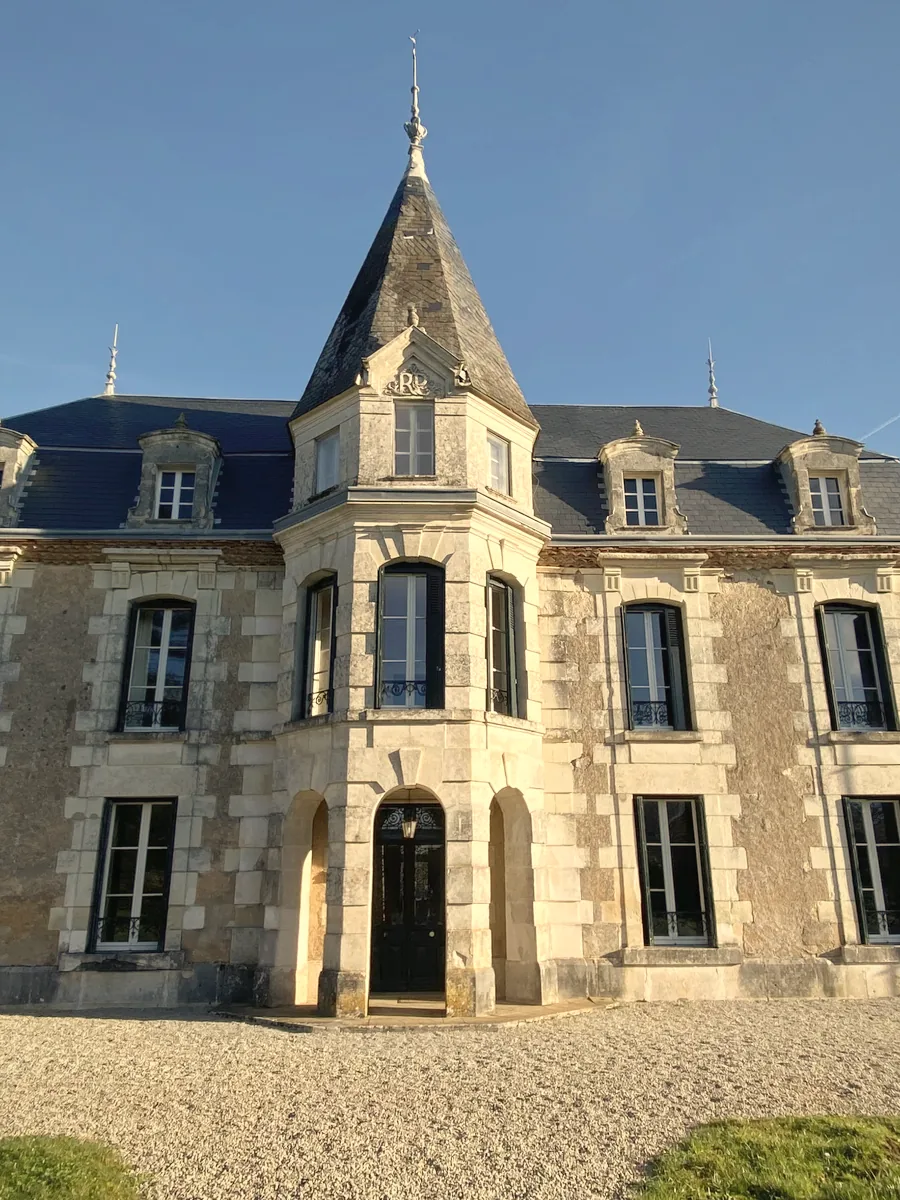
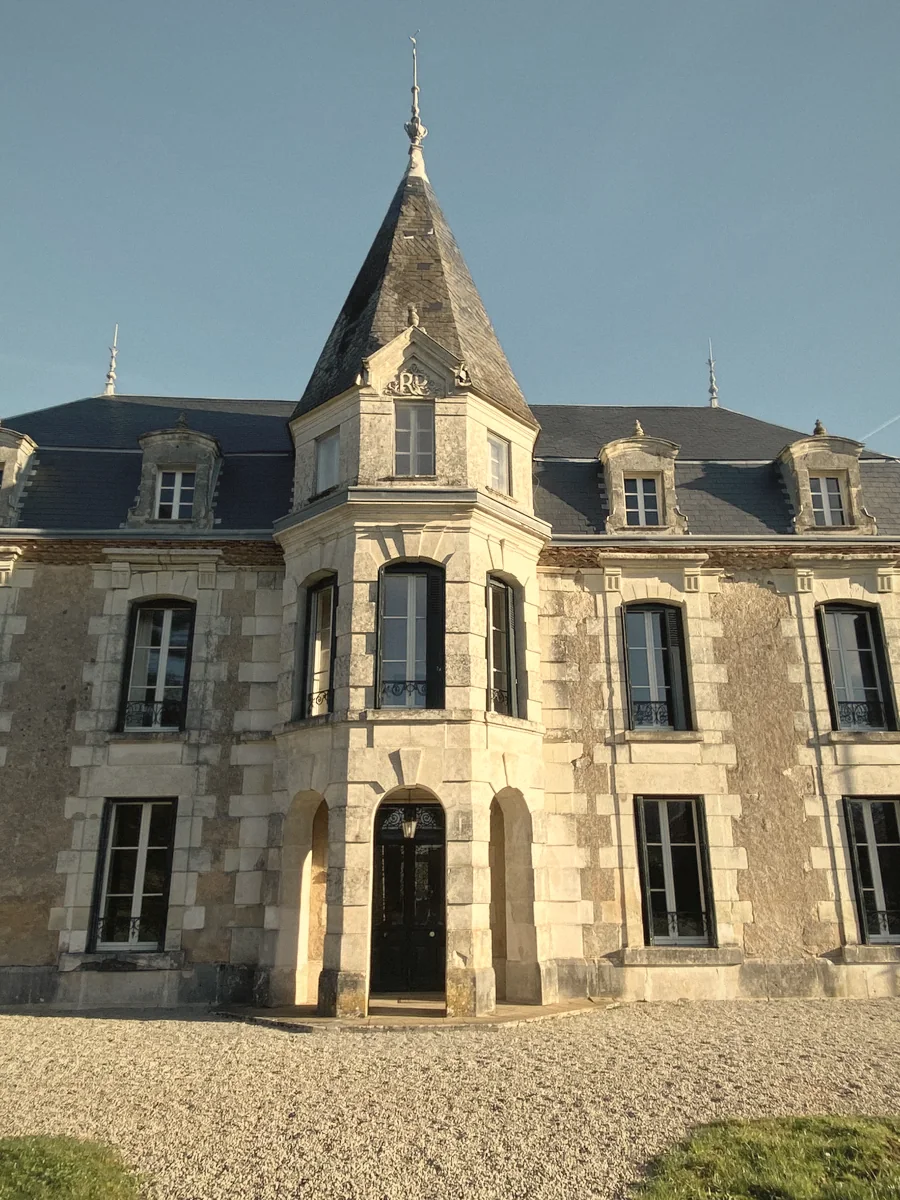
Château: curate eight photos with a muted old-money grade; interests as three areas

diff --git a/index.html b/index.html
@@ -228,12 +228,15 @@
   }
 
   /* Personal interests: small squares, deliberately secondary */
-  .interests { display: grid; grid-template-columns: repeat(3, 1fr); gap: 10px; max-width: 640px; margin: 36px auto 0; }
-  @media (min-width: 700px) { .interests { grid-template-columns: repeat(6, 1fr); max-width: 760px; gap: 12px; } }
+  .interests { display: grid; grid-template-columns: 1fr; gap: 28px; max-width: 300px; margin: 36px auto 0; }
+  @media (min-width: 700px) { .interests { grid-template-columns: repeat(3, 1fr); max-width: 820px; gap: 24px; } }
   .interest { margin: 0; }
   .interest-img { aspect-ratio: 1 / 1; background: var(--tile); overflow: hidden; }
   .interest-img img { width: 100%; height: 100%; object-fit: cover; }
-  .interest figcaption { margin-top: 8px; text-align: center; font-size: 10px; letter-spacing: 0.16em; text-transform: uppercase; color: var(--ink-soft); }
+  .interest figcaption { margin-top: 14px; text-align: center; }
+  .interest-name { display: block; font-size: 10.5px; letter-spacing: 0.16em; text-transform: uppercase; margin-bottom: 8px; }
+  .interest ul { list-style: none; margin: 0; padding: 0; font-size: 13.5px; line-height: 1.5; color: var(--ink-soft); }
+  .interest li + li { margin-top: 2px; }
 
   /* B2B to luxury bridges: title, then industry and luxury side by side */
   .bridges { max-width: 1000px; margin: 0 auto; }
@@ -492,40 +495,40 @@
         </div>
       </div>
       <p class="aside-interests reveal">
-        <span data-l="fr">Hors catalogue&nbsp;: la peinture, des maîtres russes aux impressionnistes, la sculpture italienne en marbre, le piano et le violon, les antiquités et l'architecture intérieure, le monde équestre.</span>
-        <span data-l="en">Outside the catalogue: painting, from the Russian masters to the Impressionists, Italian marble sculpture, piano and violin, antiques and interior design, the equestrian world.</span>
+        <span data-l="fr">Hors catalogue, trois passions qui nourrissent mon regard.</span>
+        <span data-l="en">Outside the catalogue, three passions that shape the way I look at things.</span>
       </p>
 
-      <!-- Personal interests: small square photos with a one-word caption.
+      <!-- Personal interests: three areas, one square photo each, examples below.
            Add a photo inside .interest-img:
-             <img src="img/interest-piano.webp" width="600" height="600" alt="..." loading="lazy"> -->
+             <img src="img/interest-music.webp" width="600" height="600" alt="..." loading="lazy"> -->
       <div class="interests" aria-label="Centres d'intérêt">
         <figure class="interest reveal">
           <div class="interest-img"></div>
-          <figcaption><span data-l="fr">Peinture</span><span data-l="en">Painting</span></figcaption>
+          <figcaption>
+            <span class="interest-name"><span data-l="fr">Beaux-arts</span><span data-l="en">Fine art</span></span>
+            <ul data-l="fr"><li>La peinture, des maîtres russes aux impressionnistes</li><li>La sculpture italienne en marbre</li></ul>
+            <ul data-l="en"><li>Painting, from the Russian masters to the Impressionists</li><li>Italian marble sculpture</li></ul>
+          </figcaption>
         </figure>
         <figure class="interest reveal">
           <div class="interest-img"></div>
-          <figcaption><span data-l="fr">Sculpture</span><span data-l="en">Sculpture</span></figcaption>
-        </figure>
-        <figure class="interest reveal">
-          <div class="interest-img"></div>
-          <figcaption><span data-l="fr">Piano</span><span data-l="en">Piano</span></figcaption>
-        </figure>
-        <figure class="interest reveal">
-          <div class="interest-img"></div>
-          <figcaption><span data-l="fr">Violon</span><span data-l="en">Violin</span></figcaption>
-        </figure>
-        <figure class="interest reveal">
-          <div class="interest-img"></div>
-          <figcaption><span data-l="fr">Antiquités</span><span data-l="en">Antiques</span></figcaption>
+          <figcaption>
+            <span class="interest-name"><span data-l="fr">Musique</span><span data-l="en">Music</span></span>
+            <ul data-l="fr"><li>Le piano</li><li>Le violon</li></ul>
+            <ul data-l="en"><li>Piano</li><li>Violin</li></ul>
+          </figcaption>
         </figure>
         <figure class="interest reveal">
           <div class="interest-img"><img src="img/interest-riding.webp" width="600" height="600" loading="lazy" decoding="async" alt="Vera Soldatenko à cheval"></div>
-          <figcaption><span data-l="fr">Équitation</span><span data-l="en">Riding</span></figcaption>
+          <figcaption>
+            <span class="interest-name"><span data-l="fr">Art de vivre</span><span data-l="en">Art de vivre</span></span>
+            <ul data-l="fr"><li>Les antiquités et l'architecture intérieure</li><li>Le monde équestre</li></ul>
+            <ul data-l="en"><li>Antiques and interior design</li><li>The equestrian world</li></ul>
+          </figcaption>
         </figure>
       </div>
-      <p class="caption"><mark class="todo">[TODO : six photographies personnelles, format carré]</mark></p>
+      <p class="caption"><mark class="todo">[TODO : deux photographies personnelles, format carré, pour les beaux-arts et la musique]</mark></p>
     </div>
   </section>
 
@@ -773,18 +776,14 @@
       </div>
 
       <div class="image-grid" aria-label="Château Landery en images">
-        <figure class="tile reveal"><img src="img/chateau-01.webp" width="900" height="1200" loading="lazy" decoding="async" alt="La façade du château sous un ciel bleu"></figure>
-        <figure class="tile reveal"><img src="img/chateau-02.webp" width="900" height="1200" loading="lazy" decoding="async" alt="Le chemin menant à la tour, dans la lumière d&#x27;automne"></figure>
-        <figure class="tile reveal"><img src="img/chateau-03.webp" width="900" height="1200" loading="lazy" decoding="async" alt="Un chat blanc devant une porte en fer forgé"></figure>
-        <figure class="tile reveal"><img src="img/chateau-04.webp" width="900" height="1200" loading="lazy" decoding="async" alt="Le lac et les arbres reflétés dans l&#x27;eau"></figure>
-        <figure class="tile reveal"><img src="img/chateau-05.webp" width="900" height="1200" loading="lazy" decoding="async" alt="Des moutons dans la prairie"></figure>
-        <figure class="tile reveal"><img src="img/chateau-06.webp" width="900" height="1200" loading="lazy" decoding="async" alt="La piscine au soleil, bordée d&#x27;arbres"></figure>
-        <figure class="tile reveal"><img src="img/chateau-07.webp" width="900" height="1200" loading="lazy" decoding="async" alt="Un gâteau aux framboises sur une table en bois"></figure>
-        <figure class="tile reveal"><img src="img/chateau-08.webp" width="900" height="1200" loading="lazy" decoding="async" alt="Une jacinthe devant un mur de pierre"></figure>
-        <figure class="tile reveal"><img src="img/chateau-09.webp" width="900" height="1200" loading="lazy" decoding="async" alt="Le parc arboré devant le château"></figure>
-        <figure class="tile reveal"><img src="img/chateau-10.webp" width="900" height="1200" loading="lazy" decoding="async" alt="La piscine entourée d&#x27;arbres"></figure>
-        <figure class="tile reveal"><img src="img/chateau-11.webp" width="900" height="1200" loading="lazy" decoding="async" alt="La cour et ses piliers de pierre"></figure>
-        <figure class="tile reveal"><img src="img/chateau-12.webp" width="900" height="1200" loading="lazy" decoding="async" alt="Le lac en été, vu entre les arbres"></figure>
+        <figure class="tile reveal"><img src="img/chateau-01.webp" width="900" height="1200" loading="lazy" decoding="async" alt="La façade du château, sa tour et ses lucarnes"></figure>
+        <figure class="tile reveal"><img src="img/chateau-02.webp" width="900" height="1200" loading="lazy" decoding="async" alt="La porte d&#x27;entrée et sa grille en fer forgé, dans un encadrement de pierre"></figure>
+        <figure class="tile reveal"><img src="img/chateau-03.webp" width="900" height="1200" loading="lazy" decoding="async" alt="Le parc dans la brume d&#x27;automne, derrière une balustrade en fer forgé"></figure>
+        <figure class="tile reveal"><img src="img/chateau-04.webp" width="900" height="1200" loading="lazy" decoding="async" alt="Le lac et ses arbres reflétés dans l&#x27;eau"></figure>
+        <figure class="tile reveal"><img src="img/chateau-05.webp" width="900" height="1200" loading="lazy" decoding="async" alt="Une dépendance en pierre aux volets verts, un matin de givre"></figure>
+        <figure class="tile reveal"><img src="img/chateau-06.webp" width="900" height="1200" loading="lazy" decoding="async" alt="La piscine bordée de pierre, entourée de grands arbres"></figure>
+        <figure class="tile reveal"><img src="img/chateau-07.webp" width="900" height="1200" loading="lazy" decoding="async" alt="Le chemin longeant les bâtiments en pierre, dans la lumière d&#x27;automne"></figure>
+        <figure class="tile reveal"><img src="img/chateau-08.webp" width="900" height="1200" loading="lazy" decoding="async" alt="Le parc arboré devant le château"></figure>
       </div>
 
       <h3 class="nearby-head reveal"><span data-l="fr">Aux alentours, proposé aux hôtes</span><span data-l="en">Nearby, suggested to guests</span></h3>
